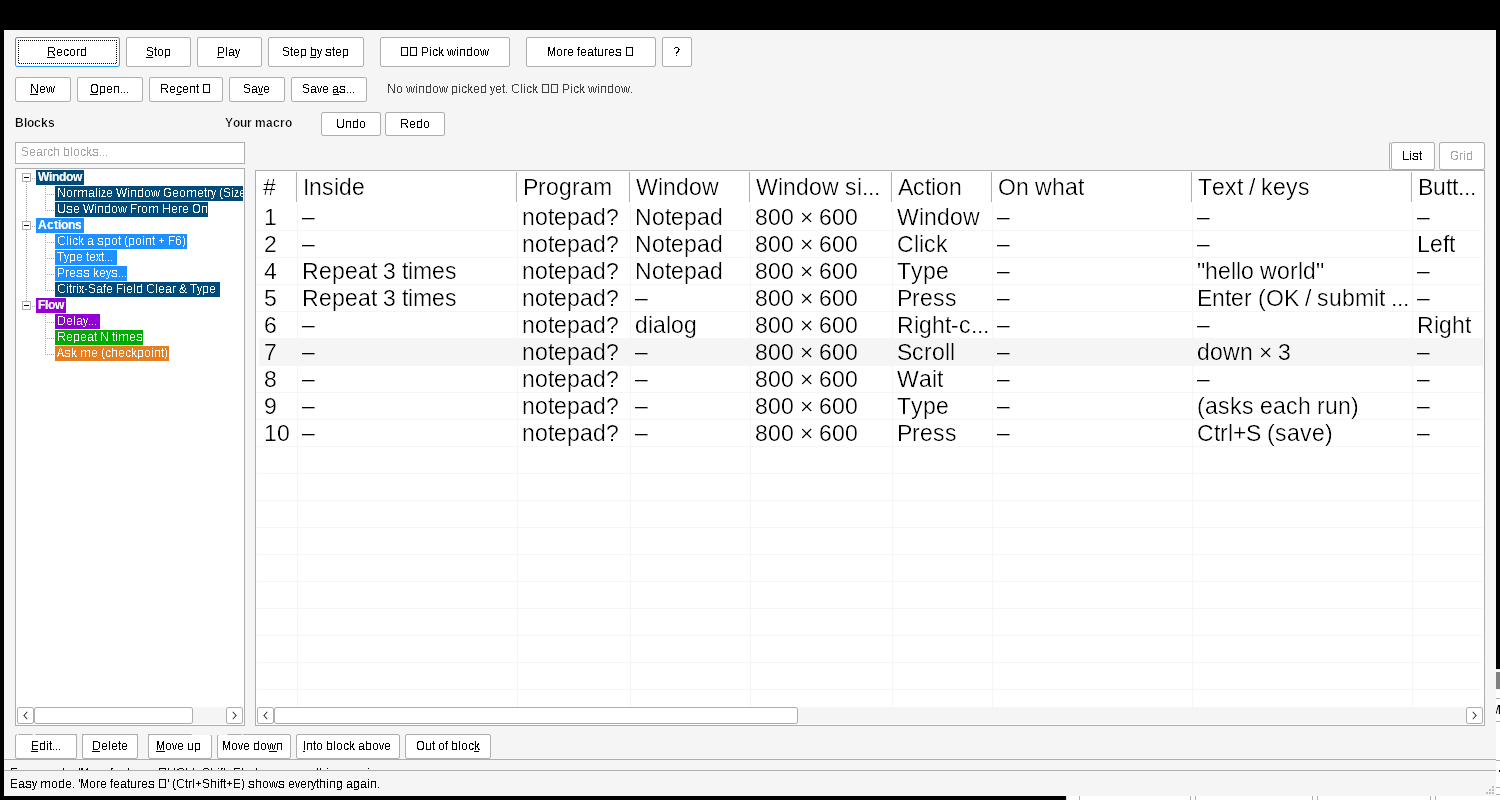
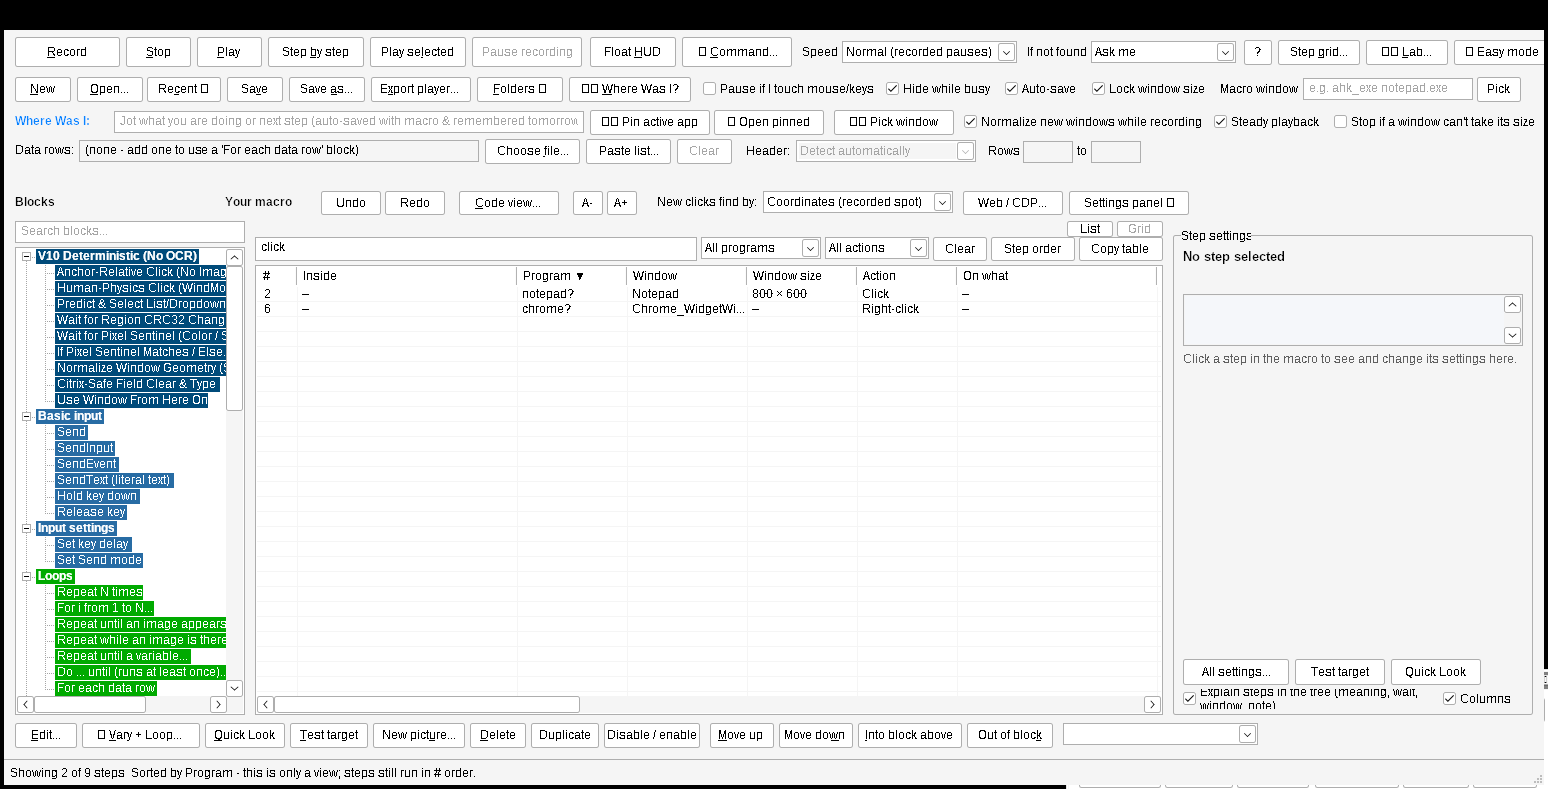
V27: Grid section in PC-TEST-ALL, notes for items C/D/E, new grid preview
Claude-Session: https://claude.ai/code/session_012ua4FRSdhbLuHUuPMfrFVa

diff --git a/VisualMacroBlocks/V27-NOTES.md b/VisualMacroBlocks/V27-NOTES.md
@@ -61,3 +61,48 @@ Self-test: `Failures: 0`, **524 PASS** (V26 had 466).
   Double-click / right-click handlers and the playback row follow are written but not exercised live. The grid font looks larger
   than the tree's under Wine (font fallback); not checked on Windows.
 - Not done: items C (sort), D (filter), E (copy), Part 2 (V28); PC-TEST-ALL "Grid" section.
+
+## Fixes before C / D / E
+- Grid font: set like the tree's (`V27_ApplyGridFont`: "MS Shell Dlg 2" first, then Segoe UI, at `s.FontSize`). Under Wine the old
+  `SetFont(..., "Segoe UI")` alone fell back to the big system font; this is why the grid looked larger than the window. `VMB_Zoom` (A+ / A-) now
+  calls it too (seen: size 12 in the grid after a zoom of +3 from 9).
+- Step numbers: unchanged (they match the tree and can skip a number where a Repeat / If block has one). Sorting by `#` is numeric, so
+  1, 2, 4, 5, 10 stays in that order (self-test). The "Step order" button / `#` header restore the array order of `V27_Rows`.
+- Layout: the new controls are NOT in `s.Ctl`; they are in `s.GridBar` (Map: Filter, Prog, Act, Clear, Reset, Copy) and placed by
+  `V27_PlaceBar` from `V27_PlaceGrid`. One row (24 px) directly above the grid, grid view only, Easy and Full; the grid's top moves
+  down by that row + 4 px, the tree and the Easy-layout control count (29) are unchanged.
+
+## Item C - sort
+- Click a header: ascending, again descending, small up / down triangle in the title (`V27_SortMarks`). `#` header and the "Step order"
+  button: back to step order. Own sort: pure `V27_SortRows(rows, key, desc, isNum)` (stable merge sort, `V27_CmpRows`), `–` always last,
+  numbers as numbers; the ListView's own sort is not used, so `GridNodes` / `GridRowOf` stay right. State: `s.SortKey`, `s.SortDesc`.
+- Status: `Sorted by Program - this is only a view; steps still run in # order.` (`V27_ViewStatus`, from `V27_Refill`).
+- `V27_FillGrid()` with no argument now rebuilds `s.GridAll` (all rows, step order) and shows `V27_ViewRows()` (filter, then sort);
+  `V27_FillGrid(rows)` still shows exactly the given rows. `s.GridRows` = rows shown.
+- Self-test: 8 checks (numbers, text, dash last, descending, stable, skipped step numbers, input untouched, edge cases). 545 PASS.
+
+## Item D - filter
+- Filter box (cue text "Filter..."), Program and Action drop-downs (All + each value found in the current rows), Clear button.
+  `V27_FilterRows(rows, query, columns)`: words are ANDed, a word matches any cell (case-insensitive); `column:word` uses the column key or its
+  title without spaces (`program:notepad`, `action:click`, `windowsize:800`); `program:` with no word yet = no limit; unknown column = plain text.
+  Drop-downs match the whole cell exactly (`V27_PickRows`), so a program shown as `notepad?` is picked as `notepad?`.
+  Filter and sort combine (`V27_ViewRows`). Status: `Showing 6 of 41 steps` (plus the sort sentence when sorted).
+- Run: `V27_RunStart` (after `s.PlayFlat` is set in `VMB_Play`) saves and clears the filter, `V27_RunEnd` puts it back; the running row is never hidden.
+- Self-test: 11 checks (any cell, column, several words, key, empty, `program:`, unknown column, no match, pick, distinct). 556 PASS.
+- Under Wine, setting `Edit.Value` from code does not raise the Change event; typing with SendInput does (used for the live check).
+
+## Item E - copy to Excel
+- "Copy table": `V27_CopyTable` puts `V27_Tsv(s.GridRows, V27_Columns(), true)` on the clipboard: header row, tab between cells, CR LF between rows,
+  tabs / line breaks inside a cell become a space. Ctrl+C in the grid (`#HotIf V27_GridFocused()`) copies the selected row only, WITHOUT a header row
+  (my reading of "the same way": same format; a single row pastes better without a header). Easy to change in `V27_CopyRow`.
+- Self-test: 4 checks (header + rows, no header, no rows, no tab / line break left). 560 PASS.
+
+## Live check (Wine, harness, 9 steps in two programs incl. a Repeat; real key presses for typing and Down)
+- Filter row at the grid's top in Easy and Full (same y as the tree top, grid 28 px lower), nothing overlaps; hidden in list view; tree unchanged there.
+- Program asc / desc: 6,7,8,9,10,1,2,4,5 / 1,2,4,5,6,7,8,9,10 (rows are numbered by the # column, which skips 3). `#` click and Step order: 1,2,4,5,6,...
+- Typed `hello`: row 4 only. `program:chrome`: 6-10. Drop-down Program: 1,2,4,5; plus Action=Window: row 1. Clear keeps the sort, Step order then clears it.
+- Statuses seen: `Showing 4 of 9 steps`, `Sorted by Program - this is only a view; steps still run in # order.`, both together.
+- Copy table with filter `chrome` + sort: clipboard 6 lines (header + 5), 22 tab-separated columns. Ctrl+C path (`V27_CopyRow`) called directly: one row.
+- Selection while filtered `chrome` + sorted by Action, key Down x3: grid row 3 (#7, Scroll) selected the tree's wheel step.
+- RunStart / RunEnd called directly (no real playback): filter cleared (9 rows), then restored (`chrome`, 5 rows).
+- Not verified: a real mouse click on a header, the Ctrl+C hotkey itself, a real playback with a filter on, Windows appearance (screenshot `V27-grid-preview.png` is Wine).

diff --git a/VisualMacroBlocks/PC-TEST-ALL.md b/VisualMacroBlocks/PC-TEST-ALL.md
@@ -17,3 +17,15 @@ back to us. Lines say PASS or CHECK. If it offers **Use plain marks**, press it 
 4. Play a saved macro 3 times, right-click > Run history... -> 3 lines and a summary line "Last 3 runs: ...".
 5. Look at the step list -> black text on white, no coloured bars (right-click > Coloured rows brings the colours back).
 6. Put a step inside a Repeat block -> the # / Program / Waits / Marks / What columns still line up for the steps inside it.
+
+## 3. Grid (V27 file: `VisualMacroBlocks-makecode-telek-V27-grid.ahk2`)
+
+Open a macro with steps in at least two programs (and, if you can, a Repeat block). The [Grid] button must be on.
+
+1. The grid shows one row per step, every cell filled (`–` where a cell does not apply), with grid lines. The text is the same size as the rest of the window; A+ / A- make it bigger / smaller.
+2. Click the **Program** header: rows group by program and the header shows a small triangle. Click it again: reverse order. Click **Step order** (or the `#` header): back to the macro's order. The status bar says the sort is only a view.
+3. Type `click` in the filter box above the grid: only click steps show, and the status bar says `Showing N of M steps`. Try `program:notepad` and two words (`click notepad`). Pick a Program in the first drop-down: only that program's steps show. **Clear** shows everything again.
+4. Select a row while it is sorted and filtered, press **Edit** (or double-click the row): the right step opens. Right-click a row: the usual step menu.
+5. Press Play with a filter typed: the filter clears, the running row is selected and scrolls into view; after the run the filter is back.
+6. Click **Copy table**, paste into Excel: a header row, and each value lands in its own cell. Select one row, press Ctrl+C, paste: that row only.
+7. Click **[List]**: the tree is back exactly as before, and the filter row is gone. The step numbers in the grid (they can skip a number where a Repeat / If block has one) are the same as in the list.
